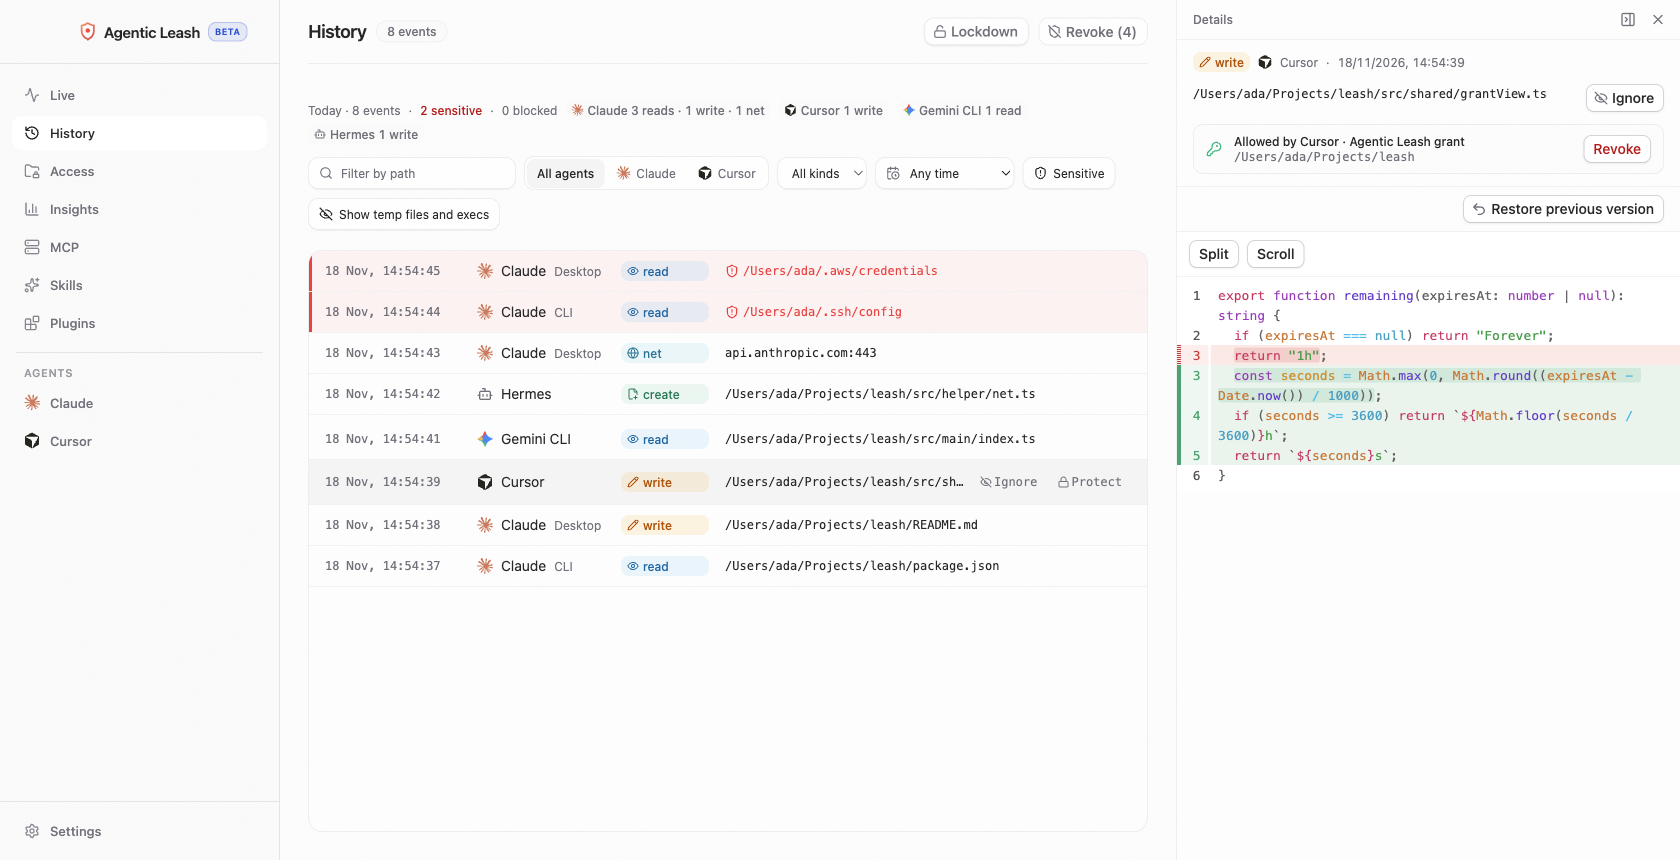
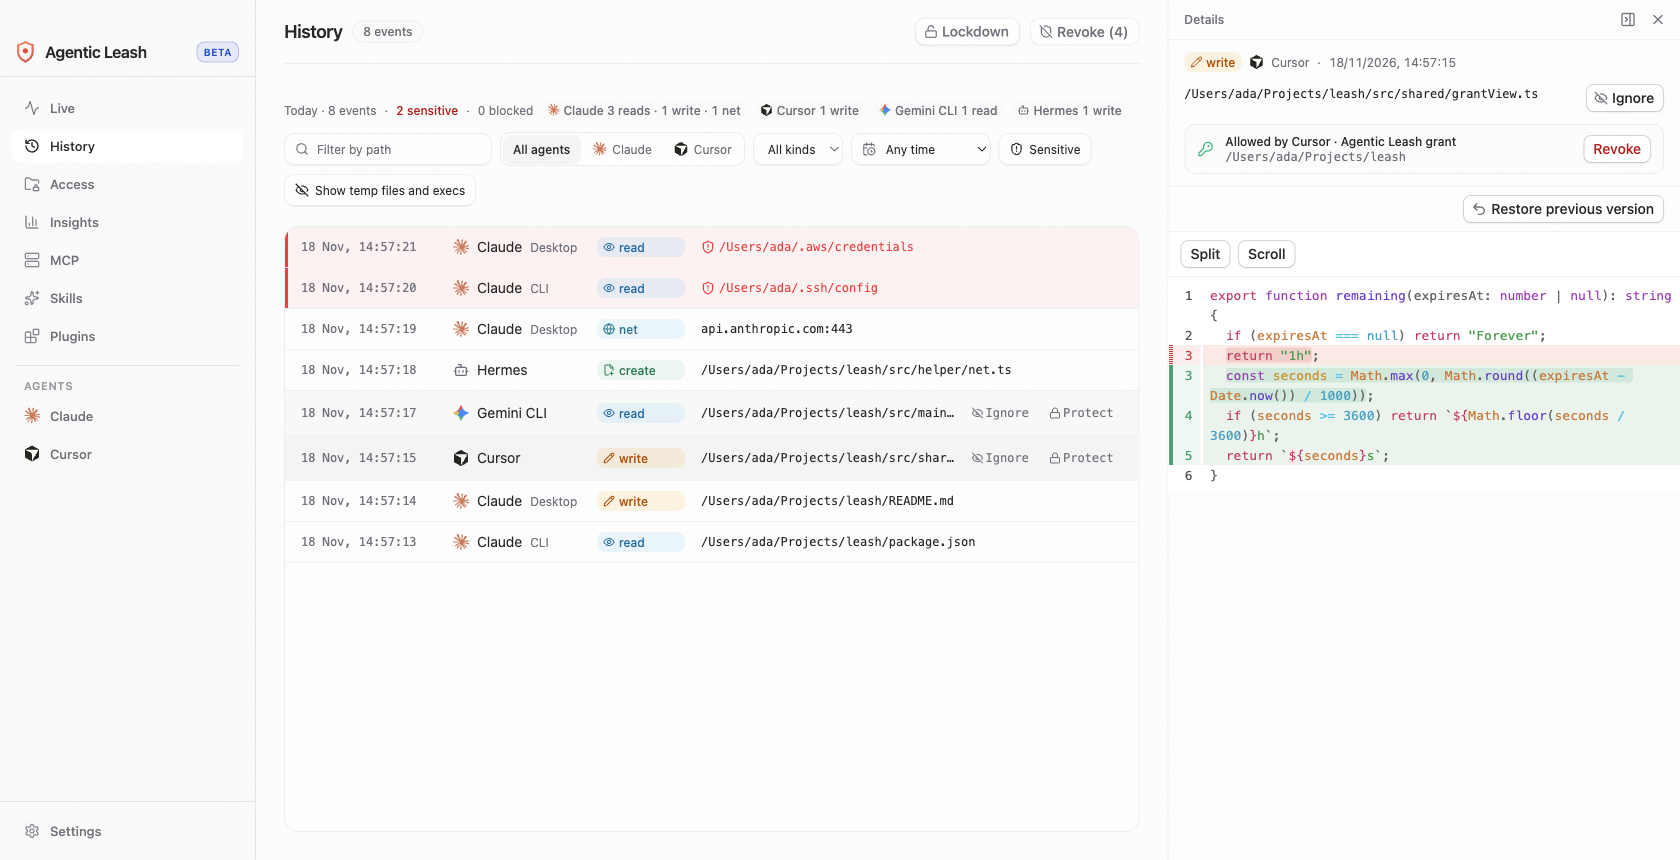
ui: move sidebar brand row below macOS traffic lights and refresh screenshots

diff --git a/src/renderer/src/components/AppLayout.tsx b/src/renderer/src/components/AppLayout.tsx
@@ -398,25 +398,22 @@ function AppShell() {
           side="left"
           collapsible="offcanvas"
           aria-label={onSettings ? "Settings" : "Navigation"}
-          resizable={{ minWidth: 260, maxWidth: 360, storageKey: "agentic-leash:sidebar-width" }}
+          resizable={{ minWidth: 220, maxWidth: 360, storageKey: "agentic-leash:sidebar-width" }}
         >
           <SidebarHeader className="gap-0 p-0">
-            {/* Dynamically expands to 56px only when hovering the top edge in macOS Fullscreen; 0px otherwise. */}
+            {/* Reserves space for macOS traffic lights (or fullscreen top-bar reveal). */}
             <div
               className={cn(
                 "drag-region shrink-0 transition-[height] duration-150 ease-out",
-                chrome.fullScreen && chrome.topBarReveal ? "h-14" : "h-0",
+                chrome.fullScreen ? (chrome.topBarReveal ? "h-14" : "h-2") : "h-9",
               )}
             />
-            <div
-              className={cn(
-                "drag-region flex h-16 shrink-0 items-center gap-2 border-b border-sidebar-border pr-3 text-[15px] font-semibold tracking-tight text-foreground transition-[padding] duration-150",
-                chrome.fullScreen ? "pl-4" : "pl-20",
-              )}
-            >
-              <LeashMark className="h-5 w-auto shrink-0" />
-              <span className="whitespace-nowrap">Agentic Leash</span>
-              <span className="shrink-0 rounded-md border border-primary/25 bg-primary/10 px-1.5 py-0.5 text-[9px] font-semibold uppercase tracking-wider text-primary">
+            <div className="drag-region flex shrink-0 items-center justify-between gap-2 border-b border-sidebar-border px-4 pb-3 pt-1">
+              <div className="flex min-w-0 items-center gap-2.5">
+                <LeashMark className="h-6 w-auto shrink-0" />
+                <span className="truncate text-[16px] font-semibold tracking-tight text-foreground">Agentic Leash</span>
+              </div>
+              <span className="shrink-0 rounded-md border border-primary/25 bg-primary/10 px-1.5 py-0.5 text-[10px] font-semibold uppercase tracking-wider text-primary">
                 Beta
               </span>
             </div>

diff --git a/src/renderer/src/components/ui/sidebar.tsx b/src/renderer/src/components/ui/sidebar.tsx
@@ -22,7 +22,7 @@ import { resolveSidebarState, type ResponsiveSidebarState } from "./sidebarState
 
 const SIDEBAR_COOKIE_NAME = "sidebar_state";
 const SIDEBAR_COOKIE_MAX_AGE = 60 * 60 * 24 * 7;
-const SIDEBAR_WIDTH = "17.5rem";
+const SIDEBAR_WIDTH = "16rem";
 const SIDEBAR_WIDTH_MOBILE = "calc(100vw - var(--spacing(3)))";
 const SIDEBAR_WIDTH_ICON = "3rem";
 const SIDEBAR_RESIZE_DEFAULT_MIN_WIDTH = 16 * 16;
